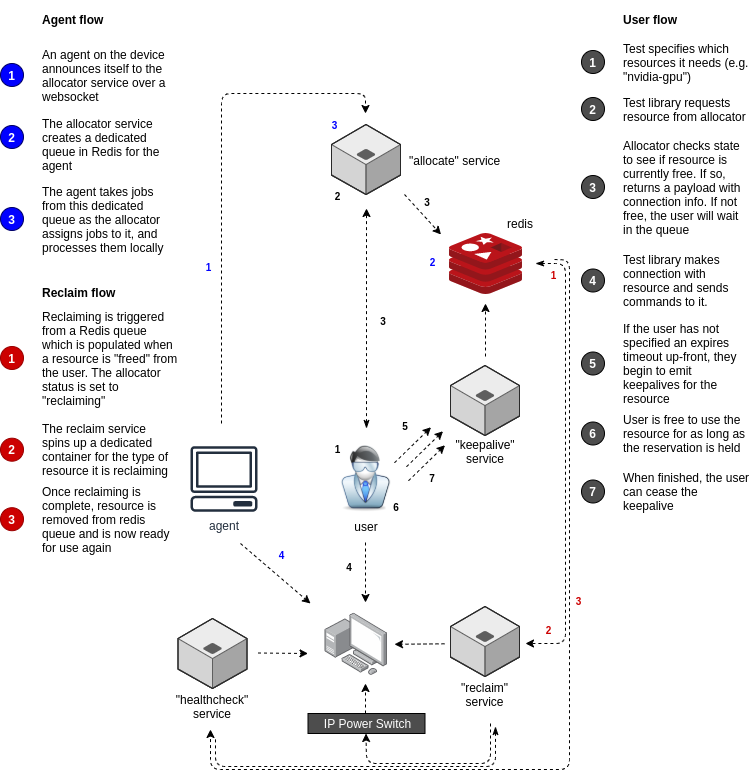
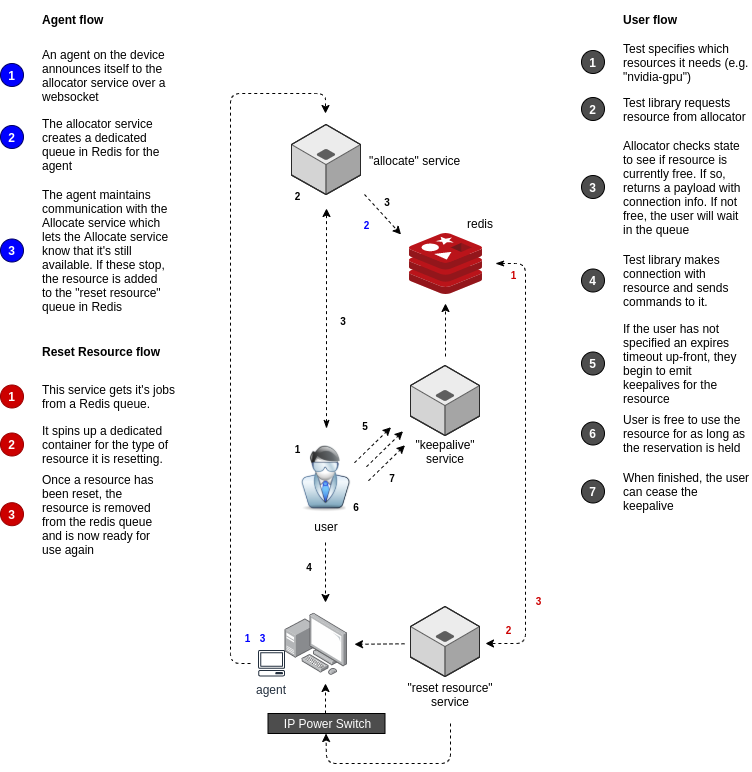
TMTNNFR-24: initial 'reclaim' service to design

diff --git a/hwprovisioner/resetresource/README.md b/hwprovisioner/resetresource/README.md
@@ -1,0 +1,12 @@
+# "reset resource" service
+
+It is the responsibility of the "Reset Resource" service to reset resources that have been provisioned using the Allocate API to a known safe state. The problem to solve here is ensuring that each device is in a clean state, ready for it's next load of tests.
+
+*Scenario: "As a developer, when I no longer have use of a resource, the hw provisioner should ensure that resource has been reset to a known safe configuration so that it's reliable in the next use"*
+
+## api
+
+```json
+# The reset resource service has no exposed API. Instead, it gets job from a queue in Redis and communicates directly with the resource
+```
+
